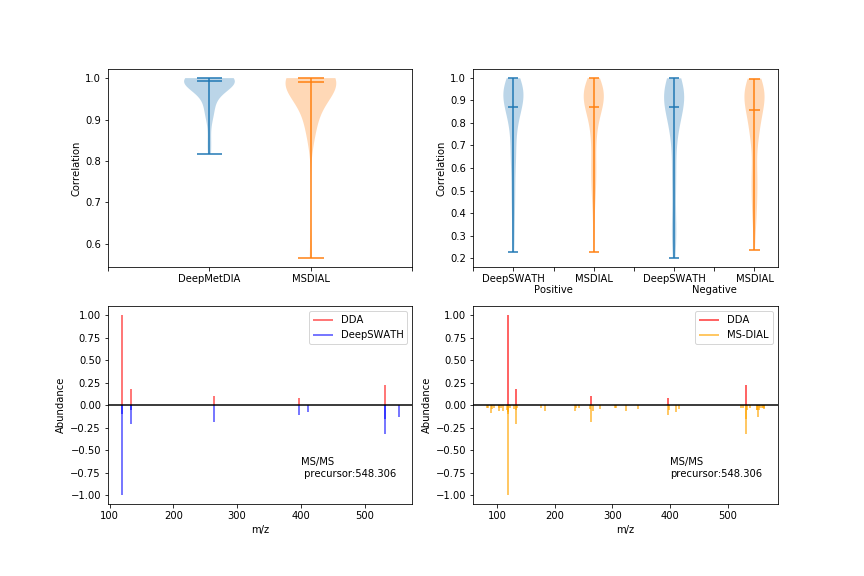
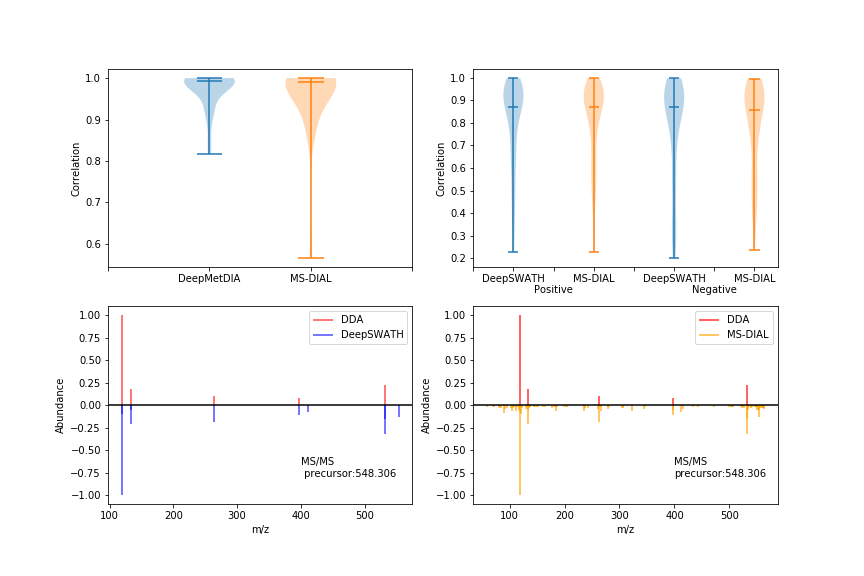
Noise-free identification

diff --git a/Comparision/Noise-free.py b/Comparision/Noise-free.py
@@ -5,16 +5,22 @@ Created on Sun Mar  8 16:26:17 2020
 @author: hcji
 """
 
+import os
+import shutil
 import numpy as np
 import pandas as pd
 import matplotlib.pyplot as plt
 from tqdm import tqdm
 from scipy.stats import pearsonr
+from PyCFMID.PyCFMID import cfm_id_database
 
-comp = pd.read_csv('Comparision/MetDIA_Data/results/comparision.csv')
-db = 'Comparision/MetDIA_data/results/30STD_Database.csv'
-f_deepdia = 'Comparision/MetDIA_data/results/30STD_mix_330ppb_1_DeepDIA.csv'
-f_msdial = 'Comparision/MetDIA_data/results/30STD_mix_330ppb_1_MSDIAL.csv'
+
+comp = pd.read_csv('Comparision/MetaboDIA_Data/results/comparision_pos.csv')
+chebi = pd.read_csv('Data/chebi.csv')
+f_dda = 'Comparision/MetaboDIA_data/results/PH697097_pos_IDA.csv'
+f_deepdia = 'Comparision/MetaboDIA_data/results/PH697097_pos_DeepDIA.csv'
+f_msdial = 'Comparision/MetaboDIA_data/results/PH697097_pos_MSDIAL.csv'
+
 
 def split_precursor(mslist):
     f1 = list(set(zip(mslist['precursor_mz'], mslist['precursor_rt'])))
@@ -26,25 +32,30 @@ def split_precursor(mslist):
     return output
 
 
-def ms_output(db, f_deepdia, f_msdial, mztol=0.05):
-    db_res = pd.read_csv(db)
+def DDA_DIA_identification(f_dda, f_deepdia, f_msdial, mztol=0.05, rttol=40):
+    dda_res = pd.read_csv(f_dda)
     deepdia_res = pd.read_csv(f_deepdia)
     msdial_res = pd.read_csv(f_msdial)
+    # for fair comparesion, exclude low intensity peaks in msdial
+    msdial_res = msdial_res[msdial_res['intensity'] > 150]
     
-    features = db_res[['Name', 'PrecursorMz']]
+    features = dda_res[['precursor_mz', 'precursor_rt', 'precursor_intensity']]
     features = features.drop_duplicates()
     
-    for i in tqdm(range(features.shape[0])):
-        f = features.iloc[i,:]
-        standard = db_res[db_res['PrecursorMz'] == f['PrecursorMz']]
-        deepdia = deepdia_res[ np.abs(deepdia_res['precursor_mz'] - f['PrecursorMz']) < mztol]
-        msdial = msdial_res[ np.abs(msdial_res['precursor_mz'] - f['PrecursorMz']) < mztol]
+    precursor_mz, precursor_rt = [], []
+    rank_1, rank_2 = [], []
+    for i in tqdm(range(comp.shape[0])):
+        f = comp.iloc[i,:]        
+        standard = dda_res[dda_res['precursor_mz'] == f['precursor_mz']]
+        
+        deepdia = deepdia_res[ np.abs(deepdia_res['precursor_mz'] - f['precursor_mz']) < mztol]
+        msdial = msdial_res[ np.abs(msdial_res['precursor_mz'] - f['precursor_mz']) < mztol]
         
         deepdia = split_precursor(deepdia)
         msdial = split_precursor(msdial)
         
-        mzs = standard['ProductMz']
-        std_int = np.array(standard['LibraryIntensity'])
+        mzs = standard['precursor_mz']
+        std_int = np.array(standard['intensity'])
         
         deepdia_corrs, msdial_corrs = [], []
         for j in range(len(deepdia)):
@@ -64,19 +75,39 @@ def ms_output(db, f_deepdia, f_msdial, mztol=0.05):
         
         deepdia = deepdia[w1][['mz', 'intensity']]
         msdial = msdial[w2][['mz', 'intensity']]
-               
-        plt.vlines(deepdia['mz'], 0, deepdia['intensity'] / np.max(deepdia['intensity']), color='red', alpha=0.7, label='DeepSWATH')
-        plt.vlines(msdial['mz'], 0, -msdial['intensity'] / np.max(msdial['intensity']), color='blue', alpha=0.7, label='MSDIAL')
-        plt.axhline(0, color='black')
-        plt.xlabel('m/z')
-        plt.ylabel('Abundance')
-        plt.legend()
+        standard = standard[['mz', 'intensity']]
         
-        deepdia.to_csv('MS/'+f['Name']+'_deepdia.csv', index=False, header=False)
-        msdial.to_csv('MS/'+f['Name']+'_msdial.csv', index=False, header=False)
+        if np.min(np.abs(chebi['Mass'] + 1.003 - f['precursor_mz'])) > mztol:
+            continue
+        else:
+            candidates = chebi[np.abs(chebi['Mass'] + 1.003 - f['precursor_mz']) <= mztol]
         
+        os.mkdir('Input')
+        candidates[['ChEBI ID', 'SMILES']].to_csv('Input/candidate.txt', index=False, header=False, sep=' ')
         
+        dda_id = cfm_id_database(standard, '', database=os.getcwd() + '/Input/candidate.txt', abs_mass_tol=mztol)['result']
+        deepdia_id = cfm_id_database(deepdia, '', database=os.getcwd() + '/Input/candidate.txt', abs_mass_tol=mztol)['result']
+        msdial_id = cfm_id_database(msdial, '', database=os.getcwd() + '/Input/candidate.txt', abs_mass_tol=mztol)['result']
+        
+        shutil.rmtree('Input')
+        shutil.rmtree('Output')
+        
+        dda_comp = dda_id.iloc[0]['ID']
+        deepdia_rank = len(np.where(deepdia_id['Score'] > list(deepdia_id['Score'])[list(deepdia_id['ID']).index(dda_comp)])[0]) + 1
+        msdial_rank = len(np.where(msdial_id['Score'] > list(msdial_id['Score'])[list(msdial_id['ID']).index(dda_comp)])[0]) + 1
+        
+        rank_1.append(deepdia_rank)
+        rank_2.append(msdial_rank)
+        precursor_mz.append(f['precursor_mz'])
+        precursor_rt.append(f['precursor_rt'])
+        
+        output = pd.DataFrame({'precursor_mz': precursor_mz, 'precursor_rt': precursor_rt, 'rank_deepdia': rank_1, 'rank_msdial': rank_2})
+        output.to_csv('Comparision/MetaboDIA_Data/results/identification_pos.csv')
+    return output
+
+
 if __name__ == '__main__':
         
-    ms_output(db, f_deepdia, f_msdial, mztol=0.05)
+    output = DDA_DIA_identification(f_dda, f_deepdia, f_msdial)
+    output.to_csv('Comparision/MetaboDIA_Data/results/identification_pos.csv')
     

diff --git a/Comparision/DDA-DIA compare.py b/Comparision/DDA-DIA compare.py
@@ -168,17 +168,17 @@ if __name__ == '__main__':
     axes[0,0].violinplot([list(metdia['DeepDIA_corr'])], [1], showmeans=False, showmedians=True)
     axes[0,0].violinplot([list(metdia['MSDIAL_corr'])], [2], showmeans=False, showmedians=True)
     axes[0,0].set_xticks(range(4))
-    axes[0,0].set_xticklabels(['', 'DeepMetDIA', 'MSDIAL', ''])
+    axes[0,0].set_xticklabels(['', 'DeepMetDIA', 'MS-DIAL', ''])
     axes[0,0].set_ylabel('Correlation')
       
     axes[0,1].violinplot([list(p_metabodia['DeepDIA_corr']), list(n_metabodia['DeepDIA_corr'])], [1,5], showmeans=False, showmedians=True)
     axes[0,1].violinplot([list(p_metabodia['MSDIAL_corr']), list(n_metabodia['MSDIAL_corr'])], [3,7], showmeans=False, showmedians=True)
     axes[0,1].set_xticks(range(8))
-    axes[0,1].set_xticklabels(['', 'DeepSWATH', '\nPositive', 'MSDIAL', '', 'DeepSWATH', '\nNegative', 'MSDIAL'])
+    axes[0,1].set_xticklabels(['', 'DeepSWATH', '\nPositive', 'MS-DIAL', '', 'DeepSWATH', '\nNegative', 'MS-DIAL'])
     axes[0,1].set_ylabel('Correlation')
     
-    exp_mz = 165.054
-    exp_rt = 123.067
+    exp_mz = 548.306
+    exp_rt = 1022.68
     mztol = 0.05
     rttol = 30
     dda_res = pd.read_csv(p_dda)
